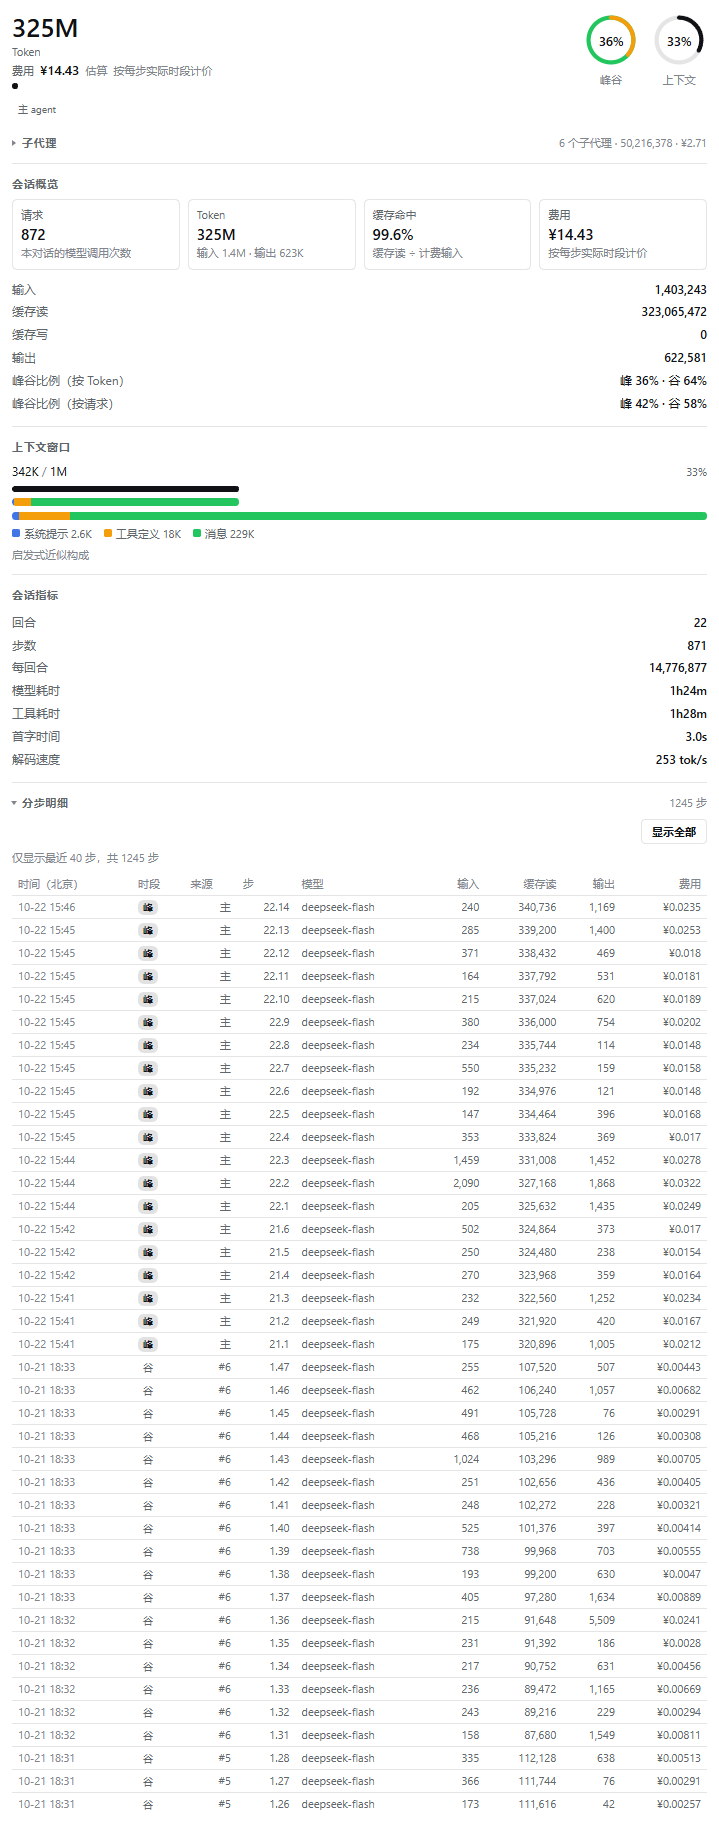
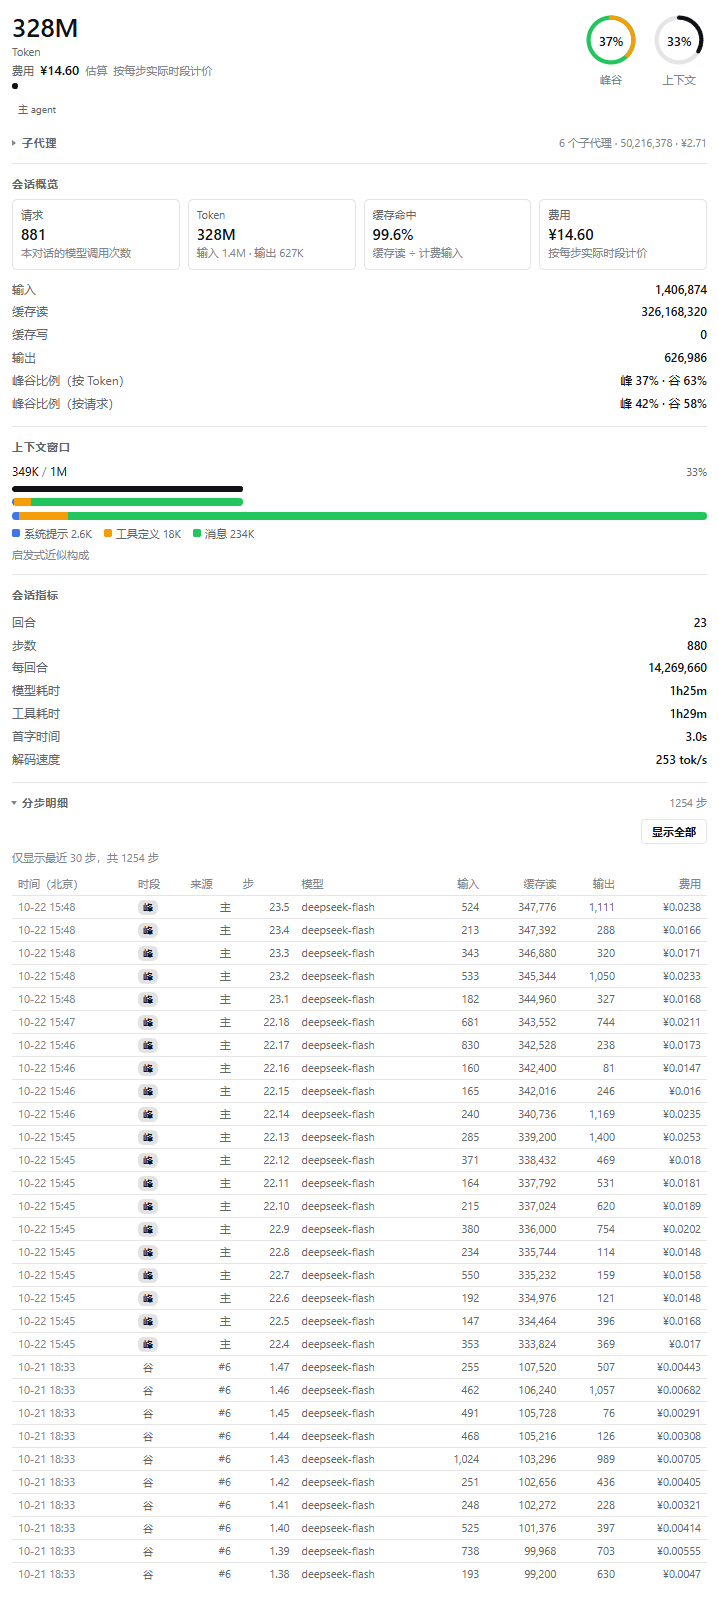
fix: default the request ledger to the latest 30 rows

diff --git a/dist/client.js b/dist/client.js
@@ -1,4 +1,4 @@
-/* dsh-usage-insights v0.9.0 — generated by scripts/build.mjs; do not edit. */
+/* dsh-usage-insights v0.9.1 — generated by scripts/build.mjs; do not edit. */
 window.__ModuleLoader__.load({
   id: "dsh-usage-insights",
   factory(require) {
@@ -2451,7 +2451,7 @@ function count(value) {
 var import_jsx_runtime5 = require("react/jsx-runtime");
 var BACKFILL_CONCURRENCY = 4;
 var AUTO_BACKFILL_LIMIT = 40;
-var MERGED_STEP_LIMIT = 40;
+var MERGED_STEP_LIMIT = 30;
 var CHILD_BACKFILL_LIMIT = 20;
 var CHILD_BACKFILL_CONCURRENCY = 3;
 function UsagePanelBody(props) {

diff --git a/src/client/panels.tsx b/src/client/panels.tsx
@@ -31,7 +31,7 @@ const BACKFILL_CONCURRENCY = 4
 const AUTO_BACKFILL_LIMIT = 40
 
 /** Rows in the merged request ledger across the delegation tree. */
-const MERGED_STEP_LIMIT = 40
+const MERGED_STEP_LIMIT = 30
 
 /** Child conversations whose band rollup the panel reads at most once. */
 const CHILD_BACKFILL_LIMIT = 20

diff --git a/README.md b/README.md
@@ -19,7 +19,7 @@
 - **上下文窗口**：第一行显示已用 / 容量与占用百分比；第二行是按占用比例填充的进度条；第三行是「占用 + 构成」组合条（宽度为占用比例，内部按三色分段）；第四行是整窗构成条；条下是带颜色的图例与各段数值。
 - **峰谷圈图**：上下文圈图左侧另有一个圈图，绿色轨道表示空闲、橙色弧线表示高峰，中心显示高峰占比（按 Token）。
 - **会话指标**：回合数、步数、每回合 Token、模型耗时、工具耗时、首字时间、解码速度。
-- **分步明细**（默认折叠，点击展开）：把主 agent 与直接子代理的请求合并成一条时间线（默认显示最近 40 条，标注总步数），每行包含北京时间、峰谷时段、来源（`主` 或子代理编号 `#1`）、`回合.步`、模型、输入 / 缓存读 / 输出、该步费用。展开后可用「显示全部」开关查看 Host 保留窗口（默认每个会话最近 200 步）内的所有请求。
+- **分步明细**（默认折叠，点击展开）：把主 agent 与直接子代理的请求合并成一条时间线（默认显示最近 30 条，标注总步数），每行包含北京时间、峰谷时段、来源（`主` 或子代理编号 `#1`）、`回合.步`、模型、输入 / 缓存读 / 输出、该步费用。展开后可用「显示全部」开关查看 Host 保留窗口（默认每个会话最近 200 步）内的所有请求。
 - **精确峰谷计价**：每个请求按它实际发起时刻所属的时段计价，而不是对整个会话套用单一价格。
 - **agent 身份与子代理明细**：面板头部标注该对话是「主 agent」还是「子 agent」；子 agent 显示父对话名称；主 agent 显示直接子代理的数量、合计 Token 与费用，并可展开查看每个子代理的请求数、Token、缓存命中率与费用（按发起顺序编号）。
 - 打开主会话的用量页时，缺少峰谷聚合的子代理会自动补读一次（最多 20 个），让明细从区间估算变为按实际时段计价。
@@ -238,7 +238,7 @@ assets/               README 截图
 
 ## 已知限制
 
-- 分步明细是窗口：每个会话的 Host 保留最近 200 条、Client 下发最近 20 条，主/子合并后展示最近 40 条；更早的请求只存在于会话日志中，聚合计数不受影响。
+- 分步明细是窗口：每个会话的 Host 保留最近 200 条并全部下发给 Client，主/子合并后默认展示最近 30 条，可用「显示全部」查看窗口内所有请求；更早的请求只存在于会话日志中，聚合计数不受影响。
 - 每日聚合保留 90 天，更早的天只计入终身总量。
 - 2027 年及以后的节假日需要等国务院公告；可手动配置或开启自动同步。
 - 极少数失败尝试（`assistant/attempt` 且此前没有成功消息）没有模型路由，按当前会话模型计价。

diff --git a/README.EN.md b/README.EN.md
@@ -33,7 +33,7 @@ The plugin adds two right-Sidebar pages.
 - **Session metrics**: turns, steps, tokens per turn, model time, tool time, first-token
   latency, decode speed.
 - **Request table** (collapsed by default, click to expand): the root agent's requests and
-  its direct subagents' requests merged into one newest-first ledger (latest 40 rows by
+  its direct subagents' requests merged into one newest-first ledger (latest 30 rows by
   default, with the delegation-wide total). Each row carries Beijing time, peak/off-peak band,
   the source (`Root`, or the subagent's number `#1`), `turn.step`, model, input / cache read /
   output, and that request's cost. A "Show all" switch reveals every request inside the Host's
@@ -318,8 +318,9 @@ assets/               README screenshots
 ## Known limitations
 
 - The request table is a window: each conversation's Host keeps the latest 200 requests and
-  the Client receives the latest 20; the root/subagent merge shows the latest 40. Older
-  requests stay only in the session log; aggregates still count them.
+  publishes all of them; the root/subagent merge shows the latest 30 by default, and the
+  "Show all" switch reveals every published row. Older requests stay only in the session log;
+  aggregates still count them.
 - Daily rows are retained for 90 days; older days count only toward the lifetime totals.
 - Holidays for 2027 and later require the State Council announcement; configure them manually
   or enable the live refresh.
